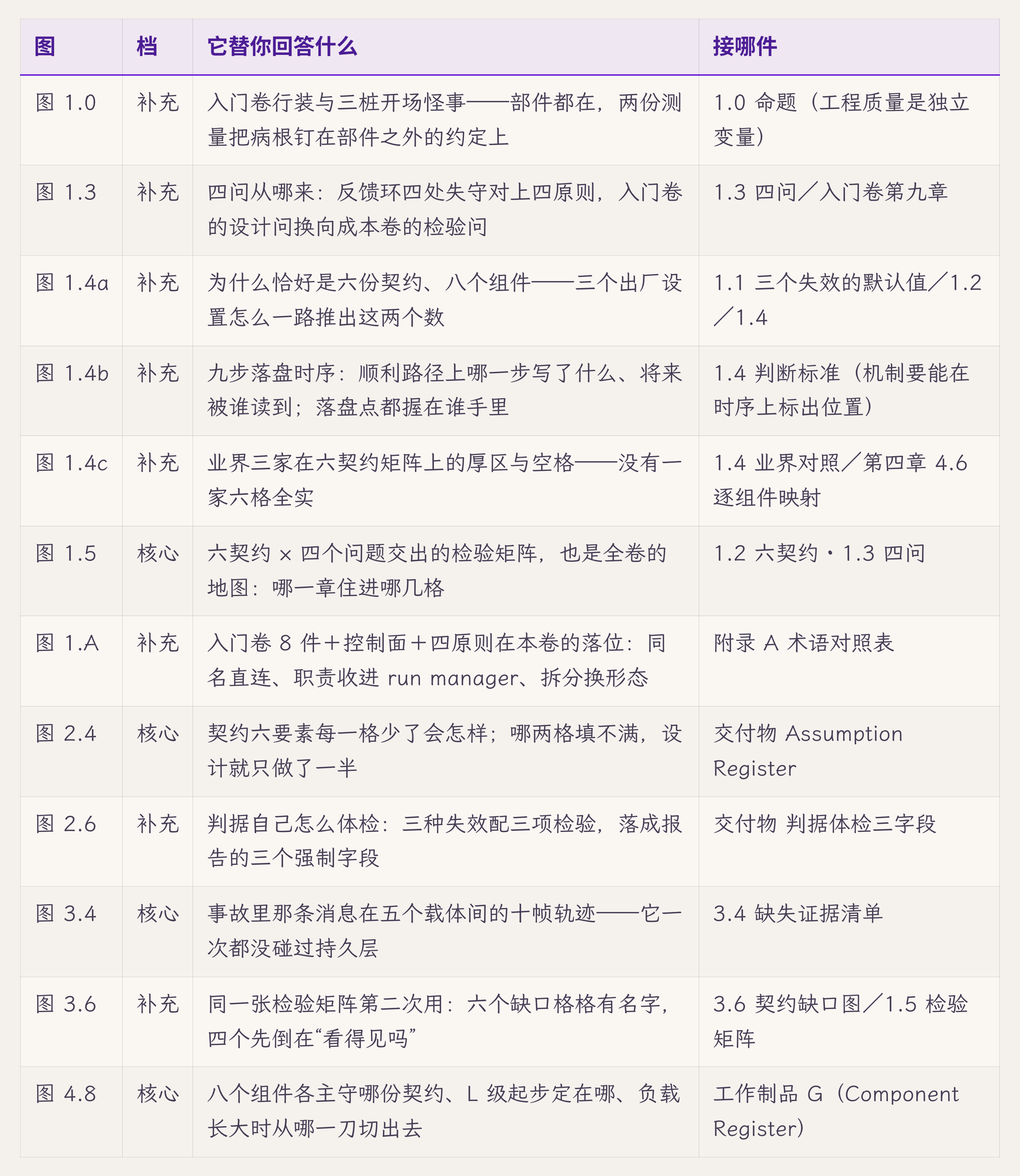
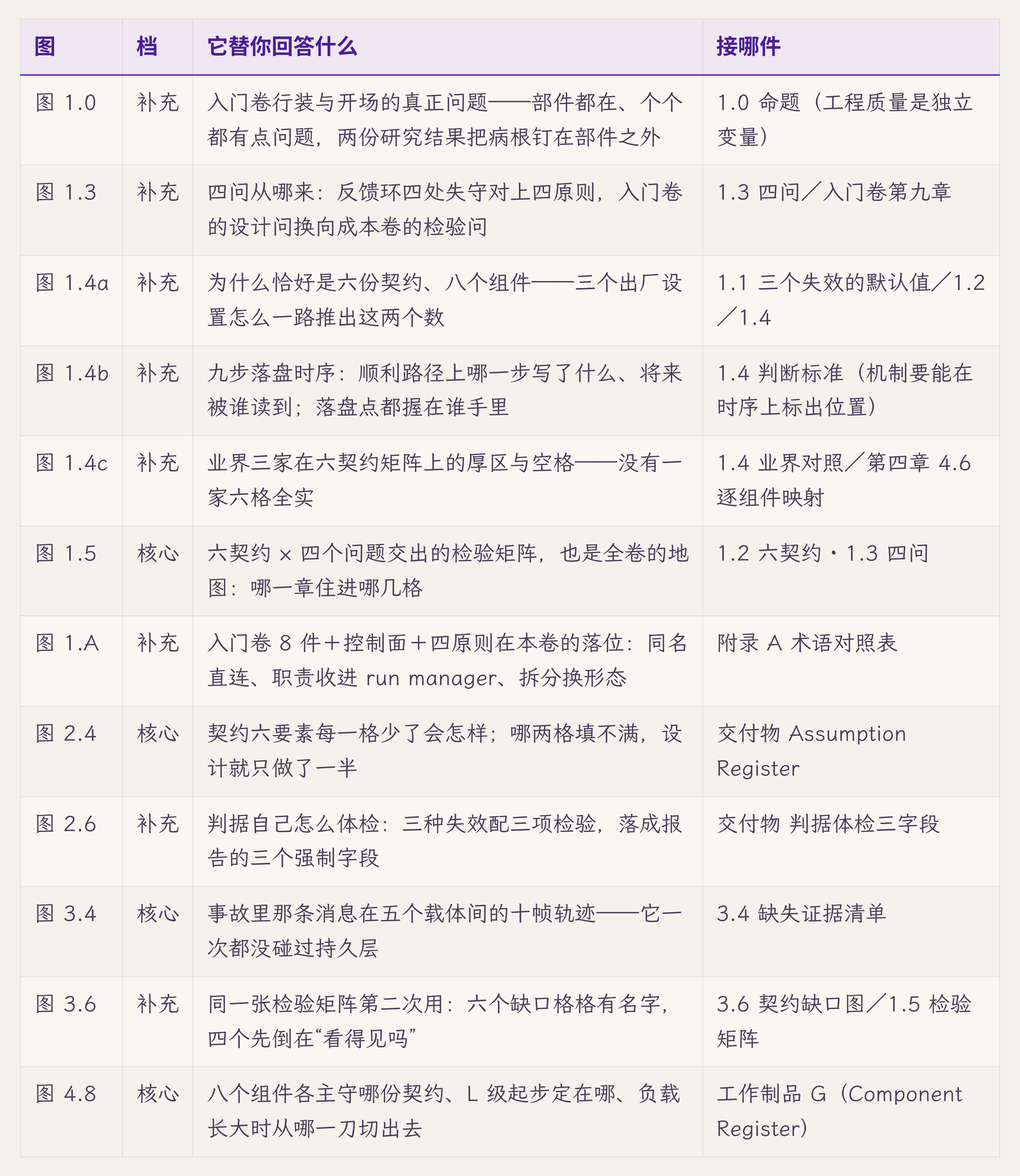
docs(volume2): 第一章文风统一（用户语体画像 v1）+ 图 1.0 措辞同步 + STYLE-VOICE 基准
- 依据用户亲笔重写的 1.0 开场四段提炼画像 v1（我们/读者站位、解释腔、
  读者动作路径、论证不动），应用到第一章后文 20 处站位级修改；
  粗体锚句/数字/【】标注一字未动，全章"怪事"字样随用户改稿清零
- 图 1.0 跟进用户文字：真正的问题framing、四条问题卡（笨笨的打头）、
  token 账单和产物；图注/导览行(tb-99-13 重渲)/PLAN 同步
- 新增 volume2/STYLE-VOICE.md：语体画像、硬约束、工作流协议
  （用户精修两章 → diff 提炼 v2 → 推其余章）；本提交即 v2 学习的基准
- PDF 重建 263 页/34 图/278 书签

diff --git a/volume2/figures/embed/tb-99-13a.html b/volume2/figures/embed/tb-99-13a.html
@@ -15,4 +15,4 @@
   th code,td code{font-family:"JetBrains Mono","LXGW WenKai",monospace;font-size:.9em;
     background:#efeae2;padding:1px 6px;border-radius:4px;color:var(--purple-dark)}
 </style></head>
-<body><div class="canvas"><table><thead><tr><th style="text-align:left;white-space:nowrap">图</th><th style="text-align:left;white-space:nowrap">档</th><th style="text-align:left">它替你回答什么</th><th style="text-align:left">接哪件</th></tr></thead><tbody><tr><td style="text-align:left;white-space:nowrap">图 1.0</td><td style="text-align:left;white-space:nowrap">补充</td><td style="text-align:left">入门卷行装与三桩开场怪事——部件都在，两份测量把病根钉在部件之外的约定上</td><td style="text-align:left">1.0 命题（工程质量是独立变量）</td></tr><tr><td style="text-align:left;white-space:nowrap">图 1.3</td><td style="text-align:left;white-space:nowrap">补充</td><td style="text-align:left">四问从哪来：反馈环四处失守对上四原则，入门卷的设计问换向成本卷的检验问</td><td style="text-align:left">1.3 四问／入门卷第九章</td></tr><tr><td style="text-align:left;white-space:nowrap">图 1.4a</td><td style="text-align:left;white-space:nowrap">补充</td><td style="text-align:left">为什么恰好是六份契约、八个组件——三个出厂设置怎么一路推出这两个数</td><td style="text-align:left">1.1 三个失效的默认值／1.2／1.4</td></tr><tr><td style="text-align:left;white-space:nowrap">图 1.4b</td><td style="text-align:left;white-space:nowrap">补充</td><td style="text-align:left">九步落盘时序：顺利路径上哪一步写了什么、将来被谁读到；落盘点都握在谁手里</td><td style="text-align:left">1.4 判断标准（机制要能在时序上标出位置）</td></tr><tr><td style="text-align:left;white-space:nowrap">图 1.4c</td><td style="text-align:left;white-space:nowrap">补充</td><td style="text-align:left">业界三家在六契约矩阵上的厚区与空格——没有一家六格全实</td><td style="text-align:left">1.4 业界对照／第四章 4.6 逐组件映射</td></tr><tr><td style="text-align:left;white-space:nowrap">图 1.5</td><td style="text-align:left;white-space:nowrap">核心</td><td style="text-align:left">六契约 × 四个问题交出的检验矩阵，也是全卷的地图：哪一章住进哪几格</td><td style="text-align:left">1.2 六契约 · 1.3 四问</td></tr><tr><td style="text-align:left;white-space:nowrap">图 1.A</td><td style="text-align:left;white-space:nowrap">补充</td><td style="text-align:left">入门卷 8 件＋控制面＋四原则在本卷的落位：同名直连、职责收进 run manager、拆分换形态</td><td style="text-align:left">附录 A 术语对照表</td></tr><tr><td style="text-align:left;white-space:nowrap">图 2.4</td><td style="text-align:left;white-space:nowrap">核心</td><td style="text-align:left">契约六要素每一格少了会怎样；哪两格填不满，设计就只做了一半</td><td style="text-align:left">交付物 Assumption Register</td></tr><tr><td style="text-align:left;white-space:nowrap">图 2.6</td><td style="text-align:left;white-space:nowrap">补充</td><td style="text-align:left">判据自己怎么体检：三种失效配三项检验，落成报告的三个强制字段</td><td style="text-align:left">交付物 判据体检三字段</td></tr><tr><td style="text-align:left;white-space:nowrap">图 3.4</td><td style="text-align:left;white-space:nowrap">核心</td><td style="text-align:left">事故里那条消息在五个载体间的十帧轨迹——它一次都没碰过持久层</td><td style="text-align:left">3.4 缺失证据清单</td></tr><tr><td style="text-align:left;white-space:nowrap">图 3.6</td><td style="text-align:left;white-space:nowrap">补充</td><td style="text-align:left">同一张检验矩阵第二次用：六个缺口格格有名字，四个先倒在“看得见吗”</td><td style="text-align:left">3.6 契约缺口图／1.5 检验矩阵</td></tr><tr><td style="text-align:left;white-space:nowrap">图 4.8</td><td style="text-align:left;white-space:nowrap">核心</td><td style="text-align:left">八个组件各主守哪份契约、L 级起步定在哪、负载长大时从哪一刀切出去</td><td style="text-align:left">工作制品 G（Component Register）</td></tr></tbody></table></div></body></html>
+<body><div class="canvas"><table><thead><tr><th style="text-align:left;white-space:nowrap">图</th><th style="text-align:left;white-space:nowrap">档</th><th style="text-align:left">它替你回答什么</th><th style="text-align:left">接哪件</th></tr></thead><tbody><tr><td style="text-align:left;white-space:nowrap">图 1.0</td><td style="text-align:left;white-space:nowrap">补充</td><td style="text-align:left">入门卷行装与开场的真正问题——部件都在、个个都有点问题，两份研究结果把病根钉在部件之外</td><td style="text-align:left">1.0 命题（工程质量是独立变量）</td></tr><tr><td style="text-align:left;white-space:nowrap">图 1.3</td><td style="text-align:left;white-space:nowrap">补充</td><td style="text-align:left">四问从哪来：反馈环四处失守对上四原则，入门卷的设计问换向成本卷的检验问</td><td style="text-align:left">1.3 四问／入门卷第九章</td></tr><tr><td style="text-align:left;white-space:nowrap">图 1.4a</td><td style="text-align:left;white-space:nowrap">补充</td><td style="text-align:left">为什么恰好是六份契约、八个组件——三个出厂设置怎么一路推出这两个数</td><td style="text-align:left">1.1 三个失效的默认值／1.2／1.4</td></tr><tr><td style="text-align:left;white-space:nowrap">图 1.4b</td><td style="text-align:left;white-space:nowrap">补充</td><td style="text-align:left">九步落盘时序：顺利路径上哪一步写了什么、将来被谁读到；落盘点都握在谁手里</td><td style="text-align:left">1.4 判断标准（机制要能在时序上标出位置）</td></tr><tr><td style="text-align:left;white-space:nowrap">图 1.4c</td><td style="text-align:left;white-space:nowrap">补充</td><td style="text-align:left">业界三家在六契约矩阵上的厚区与空格——没有一家六格全实</td><td style="text-align:left">1.4 业界对照／第四章 4.6 逐组件映射</td></tr><tr><td style="text-align:left;white-space:nowrap">图 1.5</td><td style="text-align:left;white-space:nowrap">核心</td><td style="text-align:left">六契约 × 四个问题交出的检验矩阵，也是全卷的地图：哪一章住进哪几格</td><td style="text-align:left">1.2 六契约 · 1.3 四问</td></tr><tr><td style="text-align:left;white-space:nowrap">图 1.A</td><td style="text-align:left;white-space:nowrap">补充</td><td style="text-align:left">入门卷 8 件＋控制面＋四原则在本卷的落位：同名直连、职责收进 run manager、拆分换形态</td><td style="text-align:left">附录 A 术语对照表</td></tr><tr><td style="text-align:left;white-space:nowrap">图 2.4</td><td style="text-align:left;white-space:nowrap">核心</td><td style="text-align:left">契约六要素每一格少了会怎样；哪两格填不满，设计就只做了一半</td><td style="text-align:left">交付物 Assumption Register</td></tr><tr><td style="text-align:left;white-space:nowrap">图 2.6</td><td style="text-align:left;white-space:nowrap">补充</td><td style="text-align:left">判据自己怎么体检：三种失效配三项检验，落成报告的三个强制字段</td><td style="text-align:left">交付物 判据体检三字段</td></tr><tr><td style="text-align:left;white-space:nowrap">图 3.4</td><td style="text-align:left;white-space:nowrap">核心</td><td style="text-align:left">事故里那条消息在五个载体间的十帧轨迹——它一次都没碰过持久层</td><td style="text-align:left">3.4 缺失证据清单</td></tr><tr><td style="text-align:left;white-space:nowrap">图 3.6</td><td style="text-align:left;white-space:nowrap">补充</td><td style="text-align:left">同一张检验矩阵第二次用：六个缺口格格有名字，四个先倒在“看得见吗”</td><td style="text-align:left">3.6 契约缺口图／1.5 检验矩阵</td></tr><tr><td style="text-align:left;white-space:nowrap">图 4.8</td><td style="text-align:left;white-space:nowrap">核心</td><td style="text-align:left">八个组件各主守哪份契约、L 级起步定在哪、负载长大时从哪一刀切出去</td><td style="text-align:left">工作制品 G（Component Register）</td></tr></tbody></table></div></body></html>

diff --git a/volume2/figures/t3-cardgrid-1.0-vol1-recap.html b/volume2/figures/t3-cardgrid-1.0-vol1-recap.html
@@ -37,8 +37,8 @@
 </style></head>
 <body><div class="canvas"><div class="grid-bg"></div><div class="inner">
   <span class="label-type">Harness Study · 第二卷 1.0</span>
-  <h1>入门卷的行装与开场怪事：<span class="em">部件都在，约定没人验</span></h1>
-  <div class="sub">读完入门卷，手里是一张按能力切的部件蓝图——照着搭，检查一遍，该有的都有。怪事偏偏在部件齐全之后开始：三桩事故没有一件能怪到"缺部件"头上，而干没干到底，从外面看不出来。</div>
+  <h1>入门卷的行装与真正的问题：<span class="em">部件都在，个个都有点问题</span></h1>
+  <div class="sub">在入门卷里我们展示了一张按能力切的部件蓝图——照着搭，检查一遍，该有的都有。真正的问题偏偏在部件齐全之后出现：没有一件能怪到"缺部件"头上，而干没干到好、还有没有提升空间，从外面看不出来。</div>
   <hr class="rule">
 
   <div class="stage">
@@ -61,16 +61,17 @@
     <div class="mid">
       <div class="t">照蓝图<br>搭起来</div>
       <div class="arr">→</div>
-      <div class="t">然后怪事<br>开始了</div>
+      <div class="t">真正的问题<br>出现了</div>
     </div>
     <div class="panel p-right">
-      <div class="ph">三桩怪事，全在部件齐全之后</div>
+      <div class="ph">真正的问题，全在部件齐全之后</div>
       <div class="woe">
+        <div class="w">每次输入都有响应、会调工具、能出结果——但总感觉这个智能体<b>笨笨的</b>。</div>
         <div class="w">agent <b>声称任务做完了</b>，翻开工作区，其实没做。</div>
-        <div class="w">同一个工具<b>悄悄跑了两遍</b>，账单和副作用都翻倍。</div>
+        <div class="w">同一个工具<b>悄悄跑了两遍</b>，token 账单和产物都翻倍。</div>
         <div class="w">界面卡在"生成中"，后台的进程<b>其实早就死了</b>。</div>
       </div>
-      <div class="no">没有一件能怪到"缺部件"头上——是部件没把自己的活干到底。</div>
+      <div class="no">没有一件是因为缺部件——每个部件都有，但每个部件好像都有点问题。</div>
     </div>
   </div>
 
@@ -82,6 +83,6 @@
   <div class="thesis"><b>本卷命题：harness 的工程质量是独立变量。</b>部件蓝图管"零件齐不齐"，这一卷管"零件之间的约定成不成立"——把从没写下来的约定写成六份契约明文，再用故障证明它们真的成立。</div>
 
   <div class="foot">
-    <div><span class="dot"></span>《Harness Study · 架构与工程卷》1.0 入门卷行装 · 数据：Harness-Bench（arXiv:2605.27922）/ MAST（arXiv:2503.13657）· 案例已脱敏</div>
+    <div><span class="dot"></span>《Harness Study · 架构与工程卷》1.0 入门卷行装与真正的问题 · 数据：Harness-Bench（arXiv:2605.27922）/ MAST（arXiv:2503.13657）· 案例已脱敏</div>
   </div>
 </div></div></body></html>

diff --git a/volume2/01-architecture-v4.0.md b/volume2/01-architecture-v4.0.md
@@ -16,21 +16,21 @@
 
 ![](figures/t3-cardgrid-1.0-vol1-recap.png)
 
-*图 1.0 · 入门卷的行装与开场怪事：部件都在、约定没人验，两份测量把病根钉在部件之外*
+*图 1.0 · 入门卷的行装与真正的问题：部件都在、个个都有点问题，两份研究结果把病根钉在部件之外*
 
-Harness-Bench 的同一份测量还藏着一条对选型的提示：越强的模型，跨 harness 方差越小——前沿模型能在烂 runtime 里自我补救，弱一档的模型没这个本事。由此可推（推断，非论文原文）：runtime 质量对中小模型与私有化部署的价值最高。换句话说，模型越是不顶级，这一卷讲的东西越值钱——这正是多数企业级场景所处的位置。
+Harness-Bench 的同一份数据里还藏着一条对选型的提示：越强的模型，跨 harness 方差越小——前沿模型能在烂 runtime 里自我补救，弱一档的模型没这个本事。由此可推（推断，非论文原文）：runtime 质量对中小模型与私有化部署的价值最高。换句话说，模型越是不顶级，这一卷讲的东西越值钱——这正是多数企业级场景所处的位置。
 
 在 Harness 工程实践中，我们总结了六个契约，契约可以理解为系统与外界的合同，每个合同承诺一个事情。
 
 ![](figures/embed/tb-01-1.png)
 
-合同之外还有一层：每份合同签了之后，还得回答四个问题——**看得见吗（可观测）、管得住吗（可控）、扰动下稳吗（稳定）、改进有数据吗（闭环）**。六份契约是横轴，四个问题是纵轴，交出一张检验矩阵。这张矩阵是全卷的地图：第一章把它立起来，第二章教怎么把四个问题变成可操作的测量，第三章用一次真实事故检验它，第四章把整张架构蓝图摊开，第五章到第十四章每章住进矩阵的几个格子，第十五章横轴不动、纵轴换成评审用的追问面，去审别人的系统。
+合同之外还有一层：每份合同签了之后，我们还得回答四个问题——**看得见吗（可观测）、管得住吗（可控）、扰动下稳吗（稳定）、改进有数据吗（闭环）**。六份契约是横轴，四个问题是纵轴，交出一张检验矩阵。这张矩阵是全卷的地图：第一章把它立起来，第二章教怎么把四个问题变成可操作的测量，第三章用一次真实事故检验它，第四章把整张架构蓝图摊开，第五章到第十四章每章住进矩阵的几个格子，第十五章横轴不动、纵轴换成评审用的追问面，去审别人的系统。
 
-这张矩阵现在只需要记轮廓——六份合同的名字、四个问题的问法。每一格里装什么，后面各章会逐个带进去。本节结束时手里有三样东西：一个命题（工程质量是独立变量）、一张地图的轮廓、一个悬念——部件明明都对，约定为什么会不成立？下面三节把这个悬念拆开。
+这张矩阵现在只需要记个轮廓——六份合同的名字、四个问题的问法。每一格里装什么，后面各章会逐个带进去。读到这里，手里应该有三样东西：一个命题（工程质量是独立变量）、一张地图的轮廓、一个悬念——部件明明都对，约定为什么会不成立？下面三节把这个悬念拆开。
 
 ## 1.1 三个失效的默认值
 
-悬念要从一个更早的问题拆起：把 agent runtime 当普通在线服务来搭，错在哪里？在线服务二十年攒下的可靠性工程——框架、重试中间件、发布流程、SRE 手册——押在三个默认值上：进程可弃、重试无害、行为可复现。这三个默认值不写在任何文档里，它们以出厂设置的形式活在每一层基础设施中。agent 一来，三个默认值逐个失效，而失效是无声的。
+这个悬念要从一个更早的问题拆起：把 agent runtime 当普通在线服务来搭，错在哪里？在线服务二十年攒下的可靠性工程——框架、重试中间件、发布流程、SRE 手册——押在三个默认值上：进程可弃、重试无害、行为可复现。这三个默认值不写在任何文档里，它们以出厂设置的形式活在每一层基础设施中。agent 一来，三个默认值逐个失效，而失效是无声的。
 
 进程可弃的默认，活在发布流程里。滚动发布随手杀进程，因为在途请求毫秒级结完，杀掉的损失一次重试就补回来；业务进程无状态，真相全在数据库，挂了拉起来就是——重启是运维的万能药。agent 把两个前提同时抽掉。它一次运行分钟到小时级，横跨部署、重启、断连；服务照旧随手发布，每次发布都以用户跑到一半的任务为代价。loop 又恰恰满身状态——半轮输出、工具结果、下一步计划全在内存里攒着。重启大法照吃不误，结果是库里只剩开头几步，用户半小时的推进凭空蒸发。**执行跨越故障边界**，"进程活着"从隐含前提变成撑不满全程的运气。传统计算机科学处理过长活任务——长事务、工作流引擎、durable execution 是一整个领域——但那从来没进过 web 框架的默认件，得自己去请。
 
@@ -42,7 +42,7 @@ Harness-Bench 的同一份测量还藏着一条对选型的提示：越强的模
 
 ## 1.2 威胁清单与六类契约
 
-三个变量各自划开一类口子。
+上一节的三个变量，各自划开一类口子，我们逐个看。
 
 跨故障执行的口子是**状态撕裂**：执行的中间成果住在内存，真相住在磁盘，两者随时分家；进程死在分家的瞬间，分家就永久化。开头的"卡在生成中""界面早死"都是撕裂的现场照。
 
@@ -50,23 +50,23 @@ Harness-Bench 的同一份测量还藏着一条对选型的提示：越强的模
 
 输出不确定的口子是**无从归因**：传统排障的两板斧——重放复现、对照预期——双双失效，重放不出同一条轨迹，预期本身是个分布。"日志翻半天不知道怪哪一层"是这类威胁的日常形态。
 
-挡这三类口子，靠在出事的地方打补丁行不通——补丁治的是上一次的路径，威胁下次换一条路进来。要挡住一类威胁，系统得给出一种在所有路径上都成立、并且可检验的承诺。哪六份承诺，靠反推得出——站到救援者的位置上问：崩溃已经发生、账已经乱了、轨迹已经无法重放，此刻系统最少要守住什么，事情才有救？
+挡这三类口子，靠在出事的地方打补丁行不通——补丁治的是上一次的路径，威胁下次换一条路进来。要挡住一类威胁，系统得给出一种在所有路径上都成立、并且可检验的承诺。哪六份承诺？我们靠反推得出——站到救援者的位置上问：崩溃已经发生、账已经乱了、轨迹已经无法重放，此刻系统最少要守住什么，事情才有救？
 
-对着状态撕裂问。进程死在半路无法根绝，那重启后的救援凭什么展开？第一凭知道以谁为准——**真相契约**：每个持久状态都有 owner、ID、版本和合法读写路径，"哪份算数"从不含糊。第二凭悬着的东西有终点——**交互契约**：失败、中断和恢复最终进入已定义状态，不能恢复时明确终结。撕裂无法根绝，悬而不决可以根绝；而悬而不决的东西最后都悬在用户眼前——卡住的"生成中"、断掉的流——所以这份合同签在交互面上。
+先对着状态撕裂问。进程死在半路无法根绝，那重启后的救援凭什么展开？第一凭知道以谁为准——**真相契约**：每个持久状态都有 owner、ID、版本和合法读写路径，"哪份算数"从不含糊。第二凭悬着的东西有终点——**交互契约**：失败、中断和恢复最终进入已定义状态，不能恢复时明确终结。撕裂无法根绝，悬而不决可以根绝；而悬而不决的东西最后都悬在用户眼前——卡住的"生成中"、断掉的流——所以这份合同签在交互面上。
 
-对着账对不上问。事后对账的前提，是当时记过账。意图、尝试、结果、真实 outcome，四样少记一样，对账就多一个盲区——"工具返回成功"顶多算工具的一面之词，少了 outcome 那一样，盲区恰好盖住最贵的一类事故。四样记全——**副作用契约**。
+再对着账对不上问。事后对账的前提，是当时记过账。意图、尝试、结果、真实 outcome，四样少记一样，对账就多一个盲区——"工具返回成功"顶多算工具的一面之词，少了 outcome 那一样，盲区恰好盖住最贵的一类事故。四样记全——**副作用契约**。
 
-对着无从归因问。重放这条路死了，剩下的路只有两条。一条是原因当场记：每次状态变化带上触发事件、前置条件和终结原因，不指望事后推——**转移契约**。另一条是信任换成证据：完成、失败和安全声明都能指向运行证据，组件的话不可全信——**证据契约**。
+最后对着无从归因问。重放这条路死了，剩下的路只有两条。一条是原因当场记：每次状态变化带上触发事件、前置条件和终结原因，不指望事后推——**转移契约**。另一条是信任换成证据：完成、失败和安全声明都能指向运行证据，组件的话不可全信——**证据契约**。
 
 第六份合同来自变量的组合：输出不确定的组件在长时执行中持有权力。不确定意味着权限不能靠 prompt 维持——模型可能被输入操纵，也可能单纯犯错，边界不能靠自觉；长时执行意味着授权要跨越崩溃、恢复与 fork——批过的事过了多久、换了上下文还算不算数，成了绕不开的问题。**权限契约**：权力有边界且有期限（第十一章）。
 
-反推给出了六份，还差一个交代：凭什么至少是这六份，一份不缺？本卷用一个三维网格查漏——**对象**（状态、副作用、权限、证据）×**事件**（创建、读取、修改、并发、失败、中断、恢复、删除）×**边界**（进程、worker、agent/subagent、网络、数据库、provider、工具、用户）。任何一个运行时问题都能落进某个格子。副作用 × 恢复 × 网络边界，问的是"请求超时但远端已成功，恢复后会不会重复执行"。权限 × 并发 × subagent 边界，问的是"并行子任务会不会扩大父任务权限"。状态 × 中断 × 进程边界，问的是"kill -9 之后 running 由谁收敛"。逐格扫过去，每个格子的问题都能归到六份契约之一的名下，没有哪个格子六份都管不着【经验/推导；本卷不穷举笛卡尔积，只用它查漏】。
+反推给出了六份，还差一个交代：凭什么至少是这六份，一份不缺？我们用一个三维网格查漏——**对象**（状态、副作用、权限、证据）×**事件**（创建、读取、修改、并发、失败、中断、恢复、删除）×**边界**（进程、worker、agent/subagent、网络、数据库、provider、工具、用户）。任何一个运行时问题都能落进某个格子。副作用 × 恢复 × 网络边界，问的是"请求超时但远端已成功，恢复后会不会重复执行"。权限 × 并发 × subagent 边界，问的是"并行子任务会不会扩大父任务权限"。状态 × 中断 × 进程边界，问的是"kill -9 之后 running 由谁收敛"。逐格扫过去，每个格子的问题都能归到六份契约之一的名下，没有哪个格子六份都管不着【经验/推导；本卷不穷举笛卡尔积，只用它查漏】。
 
 六份合同压成一句话：**每个状态有归宿，每个故障有路径，每个中断可恢复或诚实终结。**这三句到 1.4 会各自兑现成时序上具体的落盘点，兑现不了的就是空承诺。到这里手里多了六份合同的来路。但合同立住了还悬在半空——而且悬的方式比"没人履行"更阴险。下一节说这件事。
 
 ## 1.3 合同之外：谁来检验合同
 
-合同写了"什么不能坏"，可你怎么知道它真没坏？先看两个真实案例，都来自本教程配套实现项目【经验】。
+合同写了"什么不能坏"，可你怎么知道它真没坏？我们先看两个真实案例，都来自本教程配套实现项目【经验】。
 
 第一个案例发生在一次交接审计里。当时项目刚结束一轮高速开发——3.5 小时合并 11 个 commit，声称一批新机制全部上线；换手接续开发之前，照例逐项对账：合并的机制有多少真的在工作。审计之前，这个项目的 hook 体系看上去无懈可击：commit message 完整，7 种 hook event 的 schema 定义齐全，trait 和 register 方法都写了，单元测试 `cargo test --workspace --lib` 287/287 全绿。审计跑了一遍 grep，结论是：hook 的注册线没有接进 session 引擎的创建路径，七种 event 里六种从不 emit——schema、trait、注册方法、单测样样齐全，agent 真正跑起来时，这套 hook 对那六种 event 全程是 noop。同一批机制逐项对账后真验收 29/44。同批还抓到两个同构问题：policy 层的判定逻辑是把 safety 字段恒等派生一遍，改 policy 配置不改变任何行为；后端双发 run-event 事件，前端 23 个 listener 无一订阅——协议在 UI 层是死代码。
 
@@ -88,7 +88,7 @@ Harness-Bench 的同一份测量还藏着一条对选型的提示：越强的模
 
 *图 1.3 · 四问的来历：反馈环四处失守，四原则换向成四个检验问句，外加一枚前哨仪表*
 
-四个问题回答到什么程度，用一把统一的刻度尺量——机制成熟度 L0-L5【经验/推导，本书系分级，非业界通则】：
+四个问题回答到什么程度，我们用一把统一的刻度尺来量——机制成熟度 L0-L5【经验/推导，本书系分级，非业界通则】：
 
 ![](figures/embed/tb-01-2.png)
 
@@ -98,7 +98,7 @@ Harness-Bench 的同一份测量还藏着一条对选型的提示：越强的模
 
 现在 1.0 那张地图可以立正式定义了：横轴六份契约，纵轴四个问题，每一格填"这份契约的这个问题，靠什么回答"。拿副作用契约示范一列——看得见吗：每次外部动作有意图与结果事件落盘；管得住吗：声称与 git diff 机器对账，对不上硬门拒绝；扰动下稳吗：同任务 N 次复跑，对账结论不漂移；改进有数据吗：失败按 taxonomy 归类，机制调整前后可对比。其余二十格不在本章穷举——每章讲透自己那几格。第十五章接过的是六契约这条横轴；纵轴换成五个追问面，审别人的系统更顺手。
 
-这套检验体系还回应着一句最根深蒂固的行话。传统运维的第一格言：系统能跑，就不要去动它。这句话在它的时代成立——行为可复现的系统，跑着的每一天都在重复被验证过的行为，改动的风险大于收益。agent 把这句格言两头同时拆掉。一头，"能跑"失去了信息量：agent core 搭好之后无论如何都能跑起来，loop 会转完，模型总会返回点什么，demo 总能挑出一条好看的轨迹——能跑成了零门槛，质量藏在通过率的分布里。另一头，"不要动"锁住的东西换了：从稳定，换成了智能水平。core 的首次搭建离最优很远，而在外围修补的杠杆，测量给过几次冷冰冰的答案——同一个模型换 harness core，复合分平均差 23.8（1.0 引过，不是通过率）；作者的一个客服 agent 消融里，关掉工具协议这一格 core 修复，通过率掉 10 个百分点【经验】；换一版 prompt 措辞这类外围动作，测出的差异常常沉在噪声地板之下。效果差的 agent，很少能靠在外面包一层救回来，出路是回到 core：大量测试、调优、必要时局部重构——每一样都是那句格言禁止的事。
+这套检验体系还回应着一句最根深蒂固的行话。传统运维的第一格言：系统能跑，就不要去动它。这句话在它的时代成立——行为可复现的系统，跑着的每一天都在重复被验证过的行为，改动的风险大于收益。agent 把这句格言两头同时拆掉。一头，"能跑"失去了信息量：agent core 搭好之后无论如何都能跑起来，loop 会转完，模型总会返回点什么，demo 总能挑出一条好看的轨迹——能跑成了零门槛，质量藏在通过率的分布里。另一头，"不要动"锁住的东西换了：从稳定，换成了智能水平。core 的首次搭建离最优很远，而在外围修补的杠杆，测量给过几次冷冰冰的答案——同一个模型换 harness core，复合分平均差 23.8（1.0 引过，不是通过率）；我们的一个客服 agent 消融里，关掉工具协议这一格 core 修复，通过率掉 10 个百分点【经验】；换一版 prompt 措辞这类外围动作，测出的差异常常沉在噪声地板之下。效果差的 agent，很少能靠在外面包一层救回来，出路是回到 core：大量测试、调优、必要时局部重构——每一样都是那句格言禁止的事。
 
 敢动也不等于乱动。配套实现项目踩过这个坑：盯着单个任务连改七个 commit，通过率在 0/3 与 1/3 之间漂移，全部沉在噪声里，最后的处置是冻结调参、先建测量底座【经验】。这正是四问里"改进有数据吗"存在的理由。所以 agent 时代的格言得倒过来写：**不敢动 core 的系统，会停在它第一天的智能水平；敢动的全部前提，是检验体系让每一次动都看得见后果。**矩阵在这里露出真实身份：给必须持续动手术的人准备的无影灯。
 
@@ -106,9 +106,9 @@ Harness-Bench 的同一份测量还藏着一条对选型的提示：越强的模
 
 ## 1.4 坐标系的第一次应用：八个组件与一条时序
 
-坐标系的第一个用途，是把"谁来守约"问清楚。逐份契约问下去，结构会自己长出来——这一节的组件没有一个是发明出来的，全是被失效逼出来的。
+坐标系的第一个用途，是把"谁来守约"问清楚。我们逐份契约问下去，结构会自己长出来——这一节的组件没有一个是发明出来的，全是被失效逼出来的。
 
-先看真相契约。没人设计时，状态自己会长成什么样：loop 在内存数组里攒消息，攒够一轮写库；前端为了显示快，自己留一份会话状态；工具把结果顺手写进文件。三份记录平时相安无事——直到进程在写库前被杀。重启之后，内存那份没了，前端那份还显示"生成中"，文件那份没人说得清归属哪条消息。病根在于"该信哪份"从来没人回答过：写的时候人人能写，读的时候份份都像真的。所以真相契约的第一条硬约束落在写权上：真相只放一处，允许写它的组件只有一个——**状态层**。数据工程里这条纪律叫单源真相（SSOT），即每个数据元素只在一处被 mastered，其余位置只许只读引用【规范/官方文档】。单机参考实现选 SQLite（WAL 预写日志模式）单写者，看中的是它的不宽容：单写者天然串行，写冲突、共识、分布式事务这一整类问题直接不存在；代价是吞吐有上限，将来多实例要迁 Postgres 加 lease（租约，带时限的写权凭据，第五章展开）。这笔交换划算——原型期死于状态撕裂的系统，远多于死于吞吐不足的。
+先看真相契约。想一想没人设计时，状态自己会长成什么样：loop 在内存数组里攒消息，攒够一轮写库；前端为了显示快，自己留一份会话状态；工具把结果顺手写进文件。三份记录平时相安无事——直到进程在写库前被杀。重启之后，内存那份没了，前端那份还显示"生成中"，文件那份没人说得清归属哪条消息。病根在于"该信哪份"从来没人回答过：写的时候人人能写，读的时候份份都像真的。所以真相契约的第一条硬约束落在写权上：真相只放一处，允许写它的组件只有一个——**状态层**。数据工程里这条纪律叫单源真相（SSOT），即每个数据元素只在一处被 mastered，其余位置只许只读引用【规范/官方文档】。单机参考实现选 SQLite（WAL 预写日志模式）单写者，看中的是它的不宽容：单写者天然串行，写冲突、共识、分布式事务这一整类问题直接不存在；代价是吞吐有上限，将来多实例要迁 Postgres 加 lease（租约，带时限的写权凭据，第五章展开）。这笔交换划算——原型期死于状态撕裂的系统，远多于死于吞吐不足的。
 
 再看交互契约和权限契约，它们的失效长在同一个地方。不设防的系统里，每个入口各自为政：UI 直接调 loop，API 也调，scheduler 也调，各自实现自己的取消、自己的权限检查。用不了多久，同一个"取消"长出三种语义——UI 的取消只断了流，run 还在后台跑；API 的取消杀了 run，没记原因；双击"发送"，两个 run 同时写一个会话。崩溃后满地的孤儿 run 没人认领，因为"谁负责扫尾"从来没被指定过。病根一句话：同一种语义实现了 N 份，就会漂移成 N 种。解法是收口：所有执行，无论从哪个入口来，过同一道闸——准入、互斥、policy、limit 在这里判，孤儿 run 的发现和收尾也归这里。这道闸叫 **run manager**，这个决策叫**单执行内核**：permission、cancel、resume、工具执行四种语义只在内核实现一次，入口只剩两件事——适配意图、转发流。
 
@@ -129,7 +129,7 @@ Harness-Bench 的同一份测量还藏着一条对选型的提示：越强的模
 
 *图 1.4a · 因果脊柱：三个失效的默认值 → 三类口子 → 六份契约 → 八个组件*
 
-结构是静态的，判断它对错要看动线。一条时序：用户发一条消息，任务顺利完成。**加粗处是落盘点**——数一数有几个、都在谁手里，这张架构的正确性一半押在这上面。
+结构是静态的，判断它对错还要看动线。我们走一遍最顺利的时序：用户发一条消息，任务顺利完成。**加粗处是落盘点**——数一数有几个、都在谁手里，这张架构的正确性一半押在这上面。
 
 1. 入口收到消息，提交 run manager；
 2. run manager 准入：同会话互斥、policy、limit 检查；**落盘：run 记录建立，事件流记 run.created**；
@@ -173,15 +173,15 @@ Harness-Bench 的同一份测量还藏着一条对选型的提示：越强的模
 
 ![](figures/embed/tb-01-4.png)
 
-矩阵在 1.3 用副作用契约示范过一列，这里再示范一列，挑与它相对的真相契约：看得见吗——每个持久对象的 owner 与 version 变化都有事件落盘；管得住吗——只有状态层能写，其余组件一律只读投影；扰动下稳吗——并发双写被单写者串行化，冲突进不了库；改进有数据吗——状态撕裂类事故按 owner 归类，SSOT 收紧前后可对比。两列示范之后，其余格子的填法已经可以仿写——每章认领自己那几格，就是这么填的。
+我们在 1.3 拿副作用契约示范过一列，这里再示范一列，挑与它相对的真相契约：看得见吗——每个持久对象的 owner 与 version 变化都有事件落盘；管得住吗——只有状态层能写，其余组件一律只读投影；扰动下稳吗——并发双写被单写者串行化，冲突进不了库；改进有数据吗——状态撕裂类事故按 owner 归类，SSOT 收紧前后可对比。两列示范之后，其余格子的填法已经可以仿写——每章认领自己那几格，就是这么填的。
 
 每章的动线固定：症状 → 契约归属 → 机制展开 → 业界对照 → 破坏一次（四步协议）→ L 级自检。第二章先把四个问题变成判据，第三章用一次真实事故反向验证判据，第十四章把八个组件从零构造一遍，第十五章拿六契约这条横轴去审现存系统。
 
 读法有两条。**搭 runtime 的工程师**按章序顺读，每章的破坏实验在自己系统上跑一遍。**评估别人系统的架构师或顾问**走近道：第一章拿矩阵，第二章拿判据，第三章拿一次实战校准，第四章拿组件卡，第十三章拿证据链，第十五章拿评审流程——六章读完就能带着问题清单进场，中间各章按被评审系统的薄弱格子选读。
 
-开场怪事里还剩一件没安放："改好一处，别的地方又塌。"它的病根是暗契约——部件之间没写下来的假设，改动踩上谁都不知道。这件事没有单份契约可认领，解法是把六份合同全部写成明文，也就是本卷的全部内容。就近举一处暗契约：1.6 那个"超时该由谁标 failed"——UI 以为自己能标，run manager 以为归自己，两边都没写下来，改动一踩就塌。这类假设本章各节已经埋了好几处，第三章会给它们一张定量画像。
+开场那批问题里还剩一件没安放："改好一处，别的地方又塌。"它的病根是暗契约——部件之间没写下来的假设，改动踩上谁都不知道。这件事没有单份契约可认领，解法是把六份合同全部写成明文，也就是本卷的全部内容。就近举一处暗契约：1.6 那个"超时该由谁标 failed"——UI 以为自己能标，run manager 以为归自己，两边都没写下来，改动一踩就塌。这类假设本章各节已经埋了好几处，第三章会给它们一张定量画像。
 
-读完全卷，五件事应该能做到。任何一条消息，说得清它此刻在哪个载体里、哪份算数。进程在任意一行被杀，说得清重启后系统怎么收敛。agent 声称"做完了"，拿得出独立于这句话的证据。每个机制，说得出它在 L 几、违约时哪个事件会报警。拿到任何一个 agent 系统，能按同一套六契约审出它的缺口。前四件是 builder 的收获，第五件属于两类读者共有。
+读完全卷，读者应该能做到五件事。任何一条消息，说得清它此刻在哪个载体里、哪份算数。进程在任意一行被杀，说得清重启后系统怎么收敛。agent 声称"做完了"，拿得出独立于这句话的证据。每个机制，说得出它在 L 几、违约时哪个事件会报警。拿到任何一个 agent 系统，能按同一套六契约审出它的缺口。前四件是 builder 的收获，第五件属于两类读者共有。
 
 ## 1.6 破坏实验：真相源分叉
 

diff --git a/volume2/STYLE-VOICE.md b/volume2/STYLE-VOICE.md
@@ -1,0 +1,32 @@
+# 第二卷语体基准（STYLE-VOICE）· 文风统一工程
+
+> 用途：把用户亲笔段落的语体提炼成可执行画像，由 AI 应用到未亲笔精修的章节。随用户每次亲笔修订升版。
+> 工作流（用户 2026-07-27 定）：**用户亲笔精修若干章 → AI 拿基准提交做 git diff、只看用户改动、升版画像 → AI 按新画像逐章优化其余章 → 用户逐章终审**。文风终审权在用户；AI 交付按章分批，不一次铺全卷。
+
+## 画像 v1（依据：用户 2026-07-27 亲笔重写 1.0 开场四段）
+
+样本位置：`01-architecture-v4.0.md` 1.0 节开头四段（"在 Harness Study 入门卷里我们主要展示了…"起）。
+
+四条：
+
+1. **叙述者站位**：作者用"我们"（我们展示了／我们总结了），读者称"大家／读者／有的读者"，允许第一人称代入（"我的智能体"）。不用命令式开场（原"先把位置摆正"被删即是信号）。
+2. **宣告腔改解释腔**："本卷叫 X"→"我们总结了 X，X 可以理解为…"；强断言降温（"那一卷讲完了"→"有了一定的概念"）。
+3. **读者动作路径写进正文，允许设问**：先打补丁、改几十版提示词"好像提升也不大？"——把读者真实会做的事和心理反应铺在论点前面。
+4. **技术论证原样**：数字、案例细节、论证句用户几乎逐字保留——画像只管站位与衔接，不管内容。
+
+## 硬约束（应用画像时不许破）
+
+- **粗体锚句逐字保留**（被后续章节逐字引用）：如"每个状态有归宿，每个故障有路径，每个中断可恢复或诚实终结""检查器信任了被检查者递上来的内部信号""同一种语义实现了 N 份，就会漂移成 N 种"、假落地公式、反格言等。粗体一律不动。
+- **R1 红线仍有效**："你"系不新增（既有问句钩子除外）；不引入"让我们／本章将／综上所述"；模糊词（显著／大量／很多）禁用；"而不是／不仅…还"禁用。
+- 【】证据标注、图引用、工作制品引用、章节引用一字不动。
+- 每段只调站位句、衔接、称呼；不重写论证、不增删事实。
+
+## 应用记录
+
+- 2026-07-27 · 画像 v1 → 第一章后文 20 处站位级修改（1.1-1.5、交付物等；"怪事"字样随用户改稿清零）；图 1.0 措辞同步（真正的问题／笨笨的卡片／token 账单和产物）。第一章 = 画像 v1 的完整样章。
+
+## 下一步（压缩上下文后接续）
+
+1. 用户亲笔精修两章（建议二、三章——一章论证体、一章事故叙事体，画像覆盖两种文体；用户自定亦可）。
+2. AI：`git diff <基准提交>.. -- volume2/<该两章>.md` 提取用户改动 → 对照提炼画像 v2，登记在本文件 → 按 v2 优化其余未精修章（含回扫第一章）→ 分批交付，用户逐章终审。
+3. 基准提交：见 git log 中 "docs(volume2): 第一章文风统一" 批次（本文件随该批入库，用户精修前的最后一次提交即基准）。

diff --git a/volume2/figures/PLAN.md b/volume2/figures/PLAN.md
@@ -19,7 +19,7 @@
 
 | 图 | 文件 | 状态 |
 |---|---|---|
-| 1.0 入门卷行装与开场怪事 | `t3-cardgrid-1.0-vol1-recap` | ✓ 接 1.0 命题段后（图 1.0）。左行装（8 件＋控制面＋四原则）→ 右三桩怪事；Harness-Bench / MAST 两枚证据条＋命题带 |
+| 1.0 入门卷行装与真正的问题 | `t3-cardgrid-1.0-vol1-recap` | ✓ 接 1.0 命题段后（图 1.0）。左行装（8 件＋控制面＋四原则）→ 右四条问题卡（笨笨的打头）；Harness-Bench / MAST 两枚证据条＋命题带。2026-07-27 随用户 1.0 重写同步措辞 |
 | 1.3 四问的来历 | `t3-ring-1.3-four-questions` | ✓ 接 1.3 gap 段后（图 1.3）。四象限环：失守处→原则→问句；顶部设计问→检验问换向；底带 declared_vs_executed gap 仪表 |
 | 1.A 两卷接线 | `t3-mapping-1.A-vol1-bridge` | ✓ 接附录 A 两条裁决后（图 1.A）。左 10 右 9 接线：绿＝同名直连、琥珀＝收进 run manager、紫＝拆分换形态；便签记清单外新面孔与两条裁决 |
 

diff --git a/volume2/figures/embed/sources.md b/volume2/figures/embed/sources.md
@@ -779,7 +779,7 @@
 
 | 图 | 档 | 它替你回答什么 | 接哪件 |
 |---|---|---|---|
-| 图 1.0 | 补充 | 入门卷行装与三桩开场怪事——部件都在，两份测量把病根钉在部件之外的约定上 | 1.0 命题（工程质量是独立变量） |
+| 图 1.0 | 补充 | 入门卷行装与开场的真正问题——部件都在、个个都有点问题，两份研究结果把病根钉在部件之外 | 1.0 命题（工程质量是独立变量） |
 | 图 1.3 | 补充 | 四问从哪来：反馈环四处失守对上四原则，入门卷的设计问换向成本卷的检验问 | 1.3 四问／入门卷第九章 |
 | 图 1.4a | 补充 | 为什么恰好是六份契约、八个组件——三个出厂设置怎么一路推出这两个数 | 1.1 三个失效的默认值／1.2／1.4 |
 | 图 1.4b | 补充 | 九步落盘时序：顺利路径上哪一步写了什么、将来被谁读到；落盘点都握在谁手里 | 1.4 判断标准（机制要能在时序上标出位置） |
